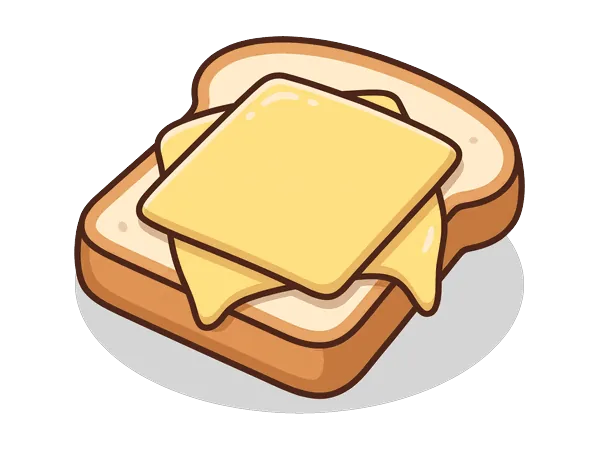
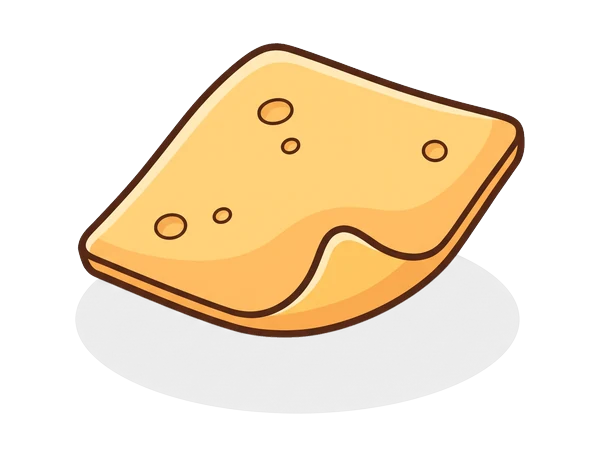
Troca as imagens do queijo e do presunto no sanduíche
O cartão do queijo mostrava o queijo em cima de um pão; agora é só
a fatia de queijo. O presunto virou três rolinhos, no estilo do jogo.

Claude-Session: https://claude.ai/code/session_01Bsh6pn5H7zEecySAzfVvnG

diff --git a/index.html b/index.html
@@ -18,8 +18,8 @@
     <meta name="apple-mobile-web-app-status-bar-style" content="black-translucent" />
     <meta name="apple-mobile-web-app-title" content="Algoritimando" />
     <!-- fontes guardadas no projeto: o jogo funciona sem internet -->
-    <link rel="stylesheet" href="fontes/fontes.css?v=202611260200" />
-    <link rel="stylesheet" href="style.css?v=202611260200" />
+    <link rel="stylesheet" href="fontes/fontes.css?v=202611260240" />
+    <link rel="stylesheet" href="style.css?v=202611260240" />
   </head>
   <body>
     <div id="stage">
@@ -916,23 +916,23 @@
          das cartas numa região, explicações de erro em outra -->
     <div class="sr leitor-avisos" aria-live="polite"></div>
     <div class="sr leitor-explicacao" aria-live="polite"></div>
-    <script src="js/versao.js?v=202611260200"></script>
-    <script src="js/motor.js?v=202611260200"></script>
-    <script src="js/comum.js?v=202611260200"></script>
-    <script src="js/situacoes.js?v=202611260200"></script>
-    <script src="js/em-progresso.js?v=202611260200"></script>
-    <script src="js/som.js?v=202611260200"></script>
-    <script src="js/progresso.js?v=202611260200"></script>
-    <script src="js/perfil.js?v=202611260200"></script>
-    <script src="js/arrasto.js?v=202611260200"></script>
-    <script src="js/conclusao.js?v=202611260200"></script>
-    <script src="js/montagem.js?v=202611260200"></script>
-    <script src="js/jogo.js?v=202611260200"></script>
+    <script src="js/versao.js?v=202611260240"></script>
+    <script src="js/motor.js?v=202611260240"></script>
+    <script src="js/comum.js?v=202611260240"></script>
+    <script src="js/situacoes.js?v=202611260240"></script>
+    <script src="js/em-progresso.js?v=202611260240"></script>
+    <script src="js/som.js?v=202611260240"></script>
+    <script src="js/progresso.js?v=202611260240"></script>
+    <script src="js/perfil.js?v=202611260240"></script>
+    <script src="js/arrasto.js?v=202611260240"></script>
+    <script src="js/conclusao.js?v=202611260240"></script>
+    <script src="js/montagem.js?v=202611260240"></script>
+    <script src="js/jogo.js?v=202611260240"></script>
     <!-- a cópia do certificado que vai para a impressora (final.js) -->
     <div id="impressao" aria-hidden="true"></div>
-    <script src="js/album.js?v=202611260200"></script>
-    <script src="js/final.js?v=202611260200"></script>
-    <script src="js/app.js?v=202611260200"></script>
-    <script src="js/pwa.js?v=202611260200"></script>
+    <script src="js/album.js?v=202611260240"></script>
+    <script src="js/final.js?v=202611260240"></script>
+    <script src="js/app.js?v=202611260240"></script>
+    <script src="js/pwa.js?v=202611260240"></script>
   </body>
 </html>

diff --git a/sw.js b/sw.js
@@ -2,7 +2,7 @@
    rode "node ferramentas/gerar-sw.js" depois de mudar o ?v= do index.html. */
 'use strict';
 
-const VERSAO = '202611260200';
+const VERSAO = '202611260240';
 const CACHE = 'algoritimando-' + VERSAO;
 const ARQUIVOS = [
   "./",
@@ -18,7 +18,7 @@ const ARQUIVOS = [
   "audio/efeitos/selo.mp3",
   "audio/efeitos/vitoria.mp3",
   "audio/musica-tema.mp3",
-  "fontes/fontes.css?v=202611260200",
+  "fontes/fontes.css?v=202611260240",
   "fontes/fredoka.woff2",
   "fontes/nunito.woff2",
   "img/agente-afro-menina.webp",
@@ -285,24 +285,24 @@ const ARQUIVOS = [
   "img/win7.webp",
   "img/win8.webp",
   "index.html",
-  "js/album.js?v=202611260200",
-  "js/app.js?v=202611260200",
-  "js/arrasto.js?v=202611260200",
-  "js/comum.js?v=202611260200",
-  "js/conclusao.js?v=202611260200",
-  "js/em-progresso.js?v=202611260200",
-  "js/final.js?v=202611260200",
-  "js/jogo.js?v=202611260200",
-  "js/montagem.js?v=202611260200",
-  "js/motor.js?v=202611260200",
-  "js/perfil.js?v=202611260200",
-  "js/progresso.js?v=202611260200",
-  "js/pwa.js?v=202611260200",
-  "js/situacoes.js?v=202611260200",
-  "js/som.js?v=202611260200",
-  "js/versao.js?v=202611260200",
+  "js/album.js?v=202611260240",
+  "js/app.js?v=202611260240",
+  "js/arrasto.js?v=202611260240",
+  "js/comum.js?v=202611260240",
+  "js/conclusao.js?v=202611260240",
+  "js/em-progresso.js?v=202611260240",
+  "js/final.js?v=202611260240",
+  "js/jogo.js?v=202611260240",
+  "js/montagem.js?v=202611260240",
+  "js/motor.js?v=202611260240",
+  "js/perfil.js?v=202611260240",
+  "js/progresso.js?v=202611260240",
+  "js/pwa.js?v=202611260240",
+  "js/situacoes.js?v=202611260240",
+  "js/som.js?v=202611260240",
+  "js/versao.js?v=202611260240",
   "manifest.webmanifest",
-  "style.css?v=202611260200"
+  "style.css?v=202611260240"
 ];
 
 // instala: baixa tudo de novo (sem usar o cache do navegador)

diff --git a/js/versao.js b/js/versao.js
@@ -1,2 +1,2 @@
 /* js/versao.js — gerado por ferramentas/gerar-sw.js. Não edite à mão. */
-window.ALGORITIMANDO_VERSAO = { numero: '1.54', data: '26/11/2026' };
+window.ALGORITIMANDO_VERSAO = { numero: '1.56', data: '26/11/2026' };
